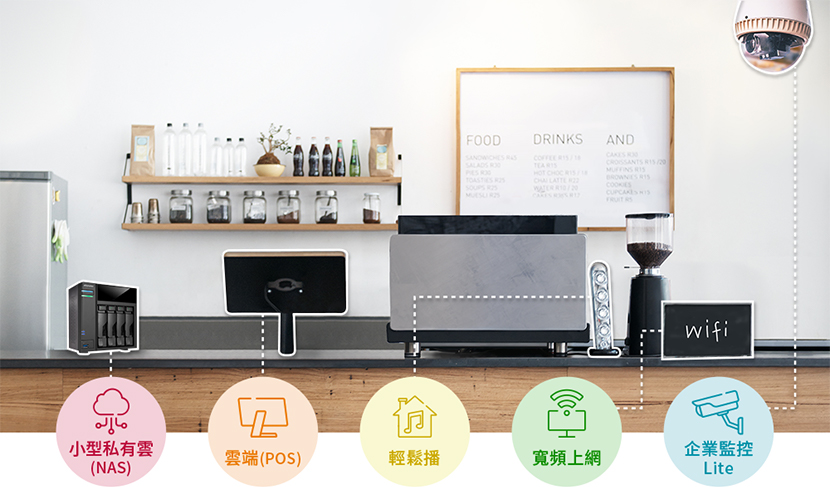
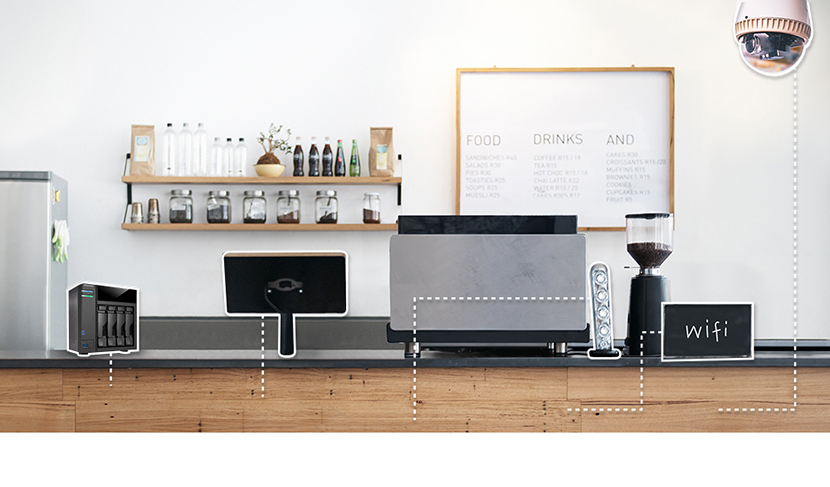
done mobile and desktop page

diff --git a/module/event-info.html b/module/event-info.html
@@ -38,13 +38,13 @@
             <div class="imgBox infoImgBox">
                 <img class="imgDesktop img-fluid my-7" src="assets/images/KV.jpg">
                 <img class="img-mobile d-sm-block d-md-none img-fluid mt-8 mb-13" src="assets/images/KV.jpg">
-                <!-- <div class="function_box">
-                  <a href="#"><img src="assets/images/icon/icon1.png" alt=""></a>
-                  <a href="#"><img src="assets/images/icon/icon2.png" alt=""></a>
-                  <a href="#"><img src="assets/images/icon/icon3.png" alt=""></a>
-                  <a href="#"><img src="assets/images/icon/icon4.png" alt=""></a>
-                  <a href="#"><img src="assets/images/icon/icon5.png" alt=""></a>
-                </div> -->
+                <div class="function_box">
+                  <a href="#NAS"><img class="img-thumbnail" src="assets/images/icon/icon1.png" alt=""></a>
+                  <a href="#"><img class="img-thumbnail" src="assets/images/icon/icon2.png" alt=""></a>
+                  <a href="#"><img class="img-thumbnail" src="assets/images/icon/icon3.png" alt=""></a>
+                  <a href="#"><img class="img-thumbnail" src="assets/images/icon/icon4.png" alt=""></a>
+                  <a href="#"><img class="img-thumbnail" src="assets/images/icon/icon5.png" alt=""></a>
+                </div>
             </div>
         </div>
 
@@ -55,7 +55,7 @@
             </a>
         </div>
 
-        <section class="col-10 col-md-12 private_NAS_section section_with_list col-centered-sm">
+        <section id="NAS" class="col-10 col-md-12 private_NAS_section section_with_list">
           <div class="row">
             <div class="col-10 col-sm-6 pb-5 col-md-4 col-lg-4 title_group text-center">
               <div class="label title">小型私有雲NAS</div>
@@ -86,10 +86,10 @@
 
         <section class="col-10 col-md-12 cloud_pos section_with_list pt-8">
           <div class="row">
-            <div class="col-4 title_group text-center">
+            <div class="col-10 col-sm-6 pb-5 col-md-4 col-lg-4 title_group text-center">
               <div class="title label">雲端POS</div>
             </div>
-            <div class="col-8 lead-sm pl-5 pb-8 content_list_group">
+            <div class="col-12 col-sm-12 col-md-8 lead-sm pb-8 content_list_group">
               <ul class="content_list m-0 text-danger">
                 <li class="list_item text-gray-dark">
                   <span>平板雲端開店包(標準版)-平板+雲端POS+熱感出單機+電子發票一年+發票紙捲一箱/36捲</span>
@@ -116,10 +116,10 @@
 
         <section class="col-10 col-md-12 easy_play section_with_list pt-8">
           <div class="row">
-            <div class="col-4 title_group text-center">
+            <div class="col-10 col-sm-6 pb-5 col-md-4 col-lg-4 title_group text-center">
               <div class="title label">輕鬆播</div>
             </div>
-            <div class="col-8 lead-sm pl-5 pb-8 content_list_group">
+            <div class="col-12 col-sm-12 col-md-8 lead-sm pb-8 content_list_group">
               <ul class="content_list m-0 text-danger">
                 <li class="list_item text-gray-dark">
                   <span>
@@ -136,10 +136,10 @@
 
         <section class="col-10 col-md-12 lte section_with_list pt-8">
           <div class="row">
-            <div class="col-4 title_group text-center">
+            <div class="col-10 col-sm-6 pb-5 col-md-4 col-lg-4 title_group text-center">
               <div class="title label">寬頻上網</div>
             </div>
-            <div class="col-8 lead-sm pl-5 pb-8 content_list_group">
+            <div class="col-12 col-sm-12 col-md-8 lead-sm pb-8 content_list_group">
               <ul class="content_list m-0 text-danger">
                 <li class="list_item text-gray-dark">
                   <span>
@@ -156,15 +156,13 @@
 
         <section class="col-10 col-md-12 business_monitor section_with_list pt-8">
           <div class="row">
-            <div class="col-4 title_group text-center">
+            <div class="col-10 col-sm-6 pb-5 col-md-4 col-lg-4 title_group text-center">
               <div class="title label">企業監控Lite</div>
             </div>
-            <div class="col-8 lead-sm pl-5 pb-8 content_list_group">
+            <div class="col-12 col-sm-12 col-md-8 lead-sm pb-md-8 pb-5 content_list_group">
               <ul class="content_list m-0 text-danger">
                 <li class="list_item text-gray-dark">
-                  <span>
-                    Beseye Pro Camera一台
-                  </span>
+                  <span>Beseye Pro Camera一台</span>
                 </li>
                 <li class="list_item text-gray-dark">
                   <span>
@@ -179,8 +177,8 @@
           </div>
         </section>
 
-        <section class="pick pt-13 col-10 col-md-12 col-centered">
-          <h3 class="text-danger title text-center mb-8">這樣選最划算</h3>
+        <section class="pick pt-md-13 pt-4 col-10 col-md-12 col-centered">
+          <h3 class="text-danger title text-center mb-md-8 mb-5">這樣選最划算</h3>
           <div class="col-12 pick_list_group">
             <ul class="pick_list">
               <li class="pick_list_item">
@@ -202,20 +200,15 @@
           </div>
         </section>
 
-
-
-
-        <div class="col-12 my-6 bd-y-1">
+        <div class="col-12 mt-8 bd-y-1">
             <a class="d-block py-2 lead-xs text-gray-dark text-center" data-toggle="collapse" href="#collapse-11" aria-expanded="false">
                 貼心小叮嚀
             </a>
             <div class="collapse" id="collapse-11">
                 <ul class="font-smallest pl-3">
-                    <li>上述活動限統編客戶適用，並同一統編僅有一次抽獎機會。</li>
-                    <li>「完成約訪」定義，需於2018/1/15即活動期間內完成登錄，並於2018/1/31經由遠傳指派專人去電/親訪完成客戶基本訪談即可參加抽獎，並將於2018年3月底前完成抽獎並於遠傳企業官網公告得獎名單。</li>
-                    <li>10萬將以遠東四合一禮券方式提供，並依中華民國稅法規定，由主辦單位依法開立扣繳憑單並列入個人綜合所得稅申報；獎項價值新台幣20,000元(含)以上者，中獎者依法須先繳交10％機會中獎稅，並填寫相關中獎收據方可進行兌獎，若無法提供上述資訊或拒絕繳稅視同棄權。</li>
-                    <li>得獎者不得要求將獎項讓與他人或變更或折換現金，並本公司保留更換其它獎項之權利。</li>
-                    <li>中獎者不符合或違反活動規定事項者，主辦單位保有取消中獎資格權利。</li>
+                    <li>本案須同時申辦二項以上不同產品才得享此優惠價格。</li>
+                    <li>遠傳頭家輕鬆配「開店幫手上網方案」簽約期間為期兩年，其餘產品皆為一次性費用。</li>
+                    <li>新世紀資通(股)保留隨時更換或停止活動之權利。</li>
                 </ul>
             </div>
         </div>

diff --git a/assets/css/custom.css b/assets/css/custom.css
@@ -2982,9 +2982,42 @@ color: white;
   margin-right: -5px;
 }
 
+.imgBox {
+  position: relative;
+}
+
 .imgBox .function_box {
   display: flex;
-  align-items: space-between;
+  position: absolute;
+  justify-content: space-around;
+  align-items: start;
+  width: 100%;
+  bottom: 42px;
+}
+
+@media (min-width:576px) {
+  .imgBox .function_box {
+    bottom: -29px;
+  }
+}
+
+@media (min-width:768px) {
+  .imgBox .function_box {
+    bottom: 8px;
+  }
+}
+
+@media (min-width:992px) {
+  .imgBox .function_box {
+    bottom: 30px;
+  }
+}
+
+
+
+.function_box .img-thumbnail {
+  border:none;
+  background: transparent;
 }
 
 .section_with_list {
@@ -3054,15 +3087,19 @@ color: white;
   margin-right: auto;
 }
 
+.content_list_group {
+  padding-right: 0;
+}
 .content_list {
   padding-left: 0;
-
 }
+
 
 /*pick section*/
 
 .pick_list{
   list-style: none;
+  padding-left: 0;
 }
 
 .pick_list_item {
